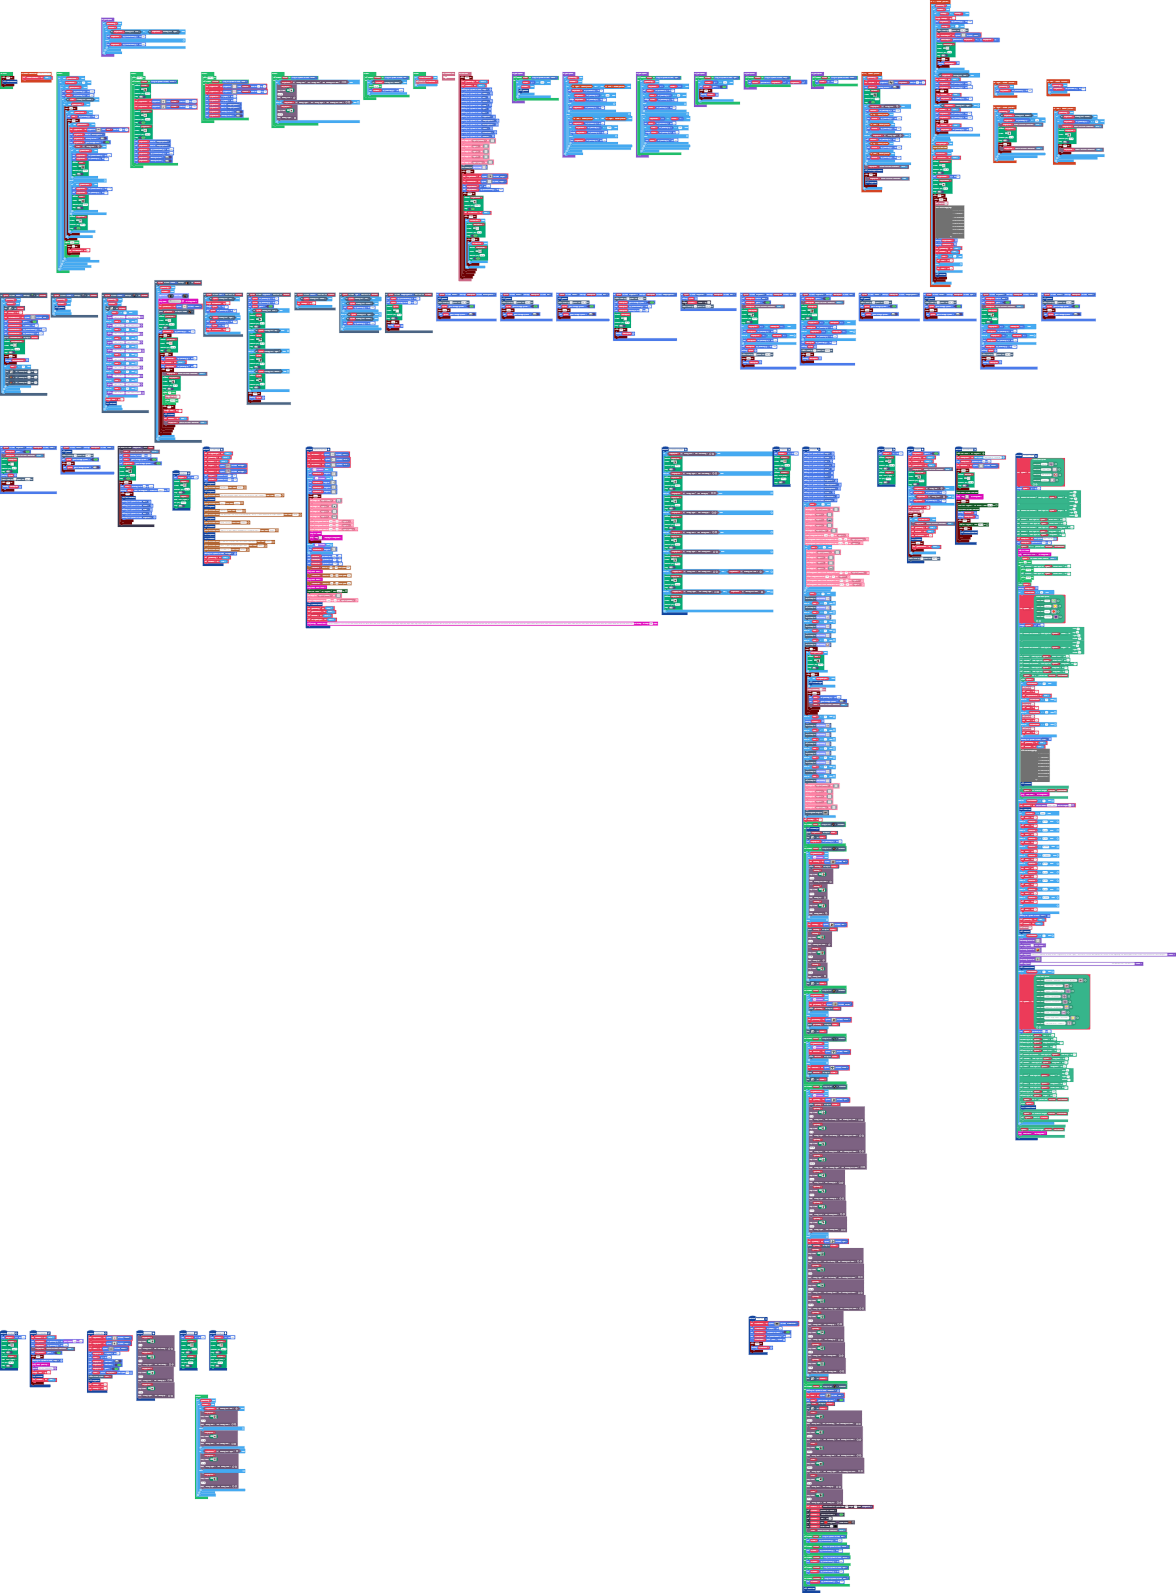
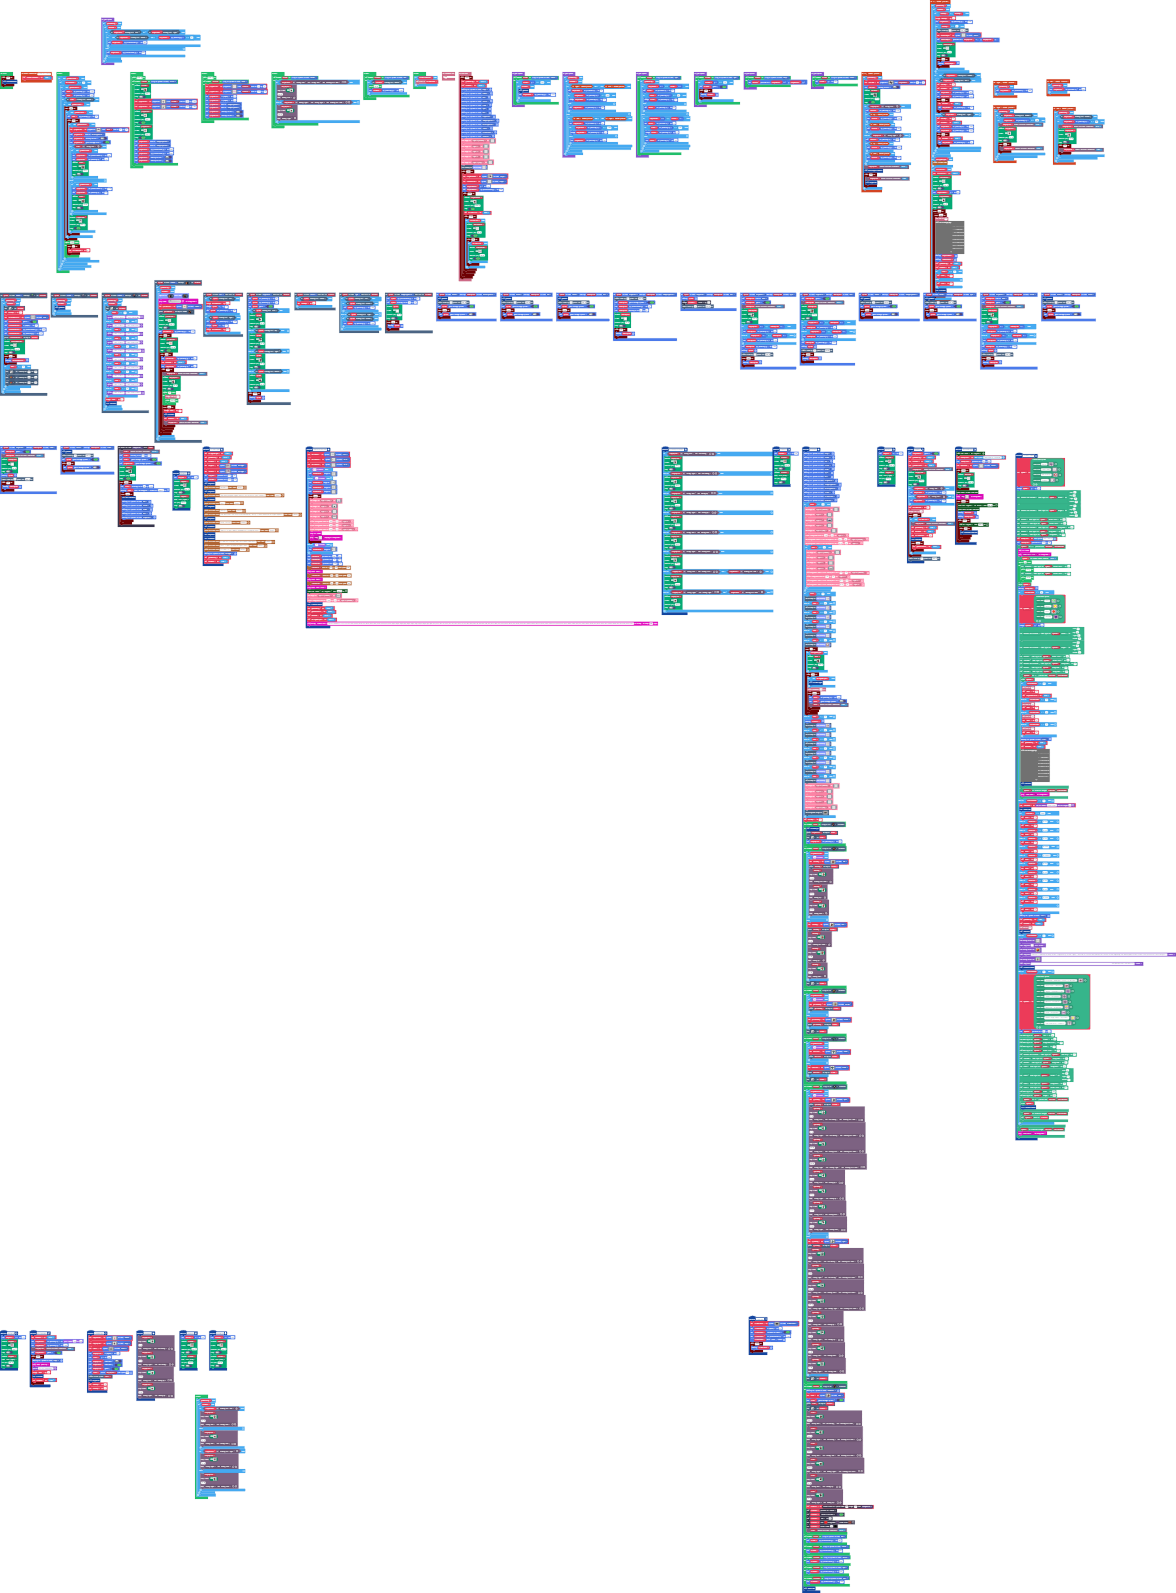
Update pxt.json, main.blocks, main.ts

Changed region(s): [[0.7653, 0.0308, 0.8571, 0.1846], [0.0918, 0.0, 0.1837, 0.0615], [0.4286, 0.0615, 0.4592, 0.0923]]

diff --git a/main.ts b/main.ts
@@ -505,22 +505,26 @@ controller.A.onEvent(ControllerButtonEvent.Pressed, function () {
                     })
                 }
             }
-            if (ninjiHitbox.isHittingTile(CollisionDirection.Left)) {
-                movement = false
-                ninjiHitbox.vx = 80
-                ninjiHitbox.vy = -180
-                timer.after(100, function () {
-                    movement = true
-                    ninjiHitbox.vx = 0
-                })
-            } else if (ninjiHitbox.isHittingTile(CollisionDirection.Right)) {
-                movement = false
-                ninjiHitbox.vx = -80
-                ninjiHitbox.vy = -180
-                timer.after(100, function () {
-                    movement = true
-                    ninjiHitbox.vx = 0
-                })
+            if (!(ninjiHitbox.isHittingTile(CollisionDirection.Bottom))) {
+                if (ninjiHitbox.isHittingTile(CollisionDirection.Left)) {
+                    numJumps = 0
+                    movement = false
+                    ninjiHitbox.vx = 100
+                    ninjiHitbox.vy = -180
+                    timer.after(100, function () {
+                        movement = true
+                        ninjiHitbox.vx = 0
+                    })
+                } else if (ninjiHitbox.isHittingTile(CollisionDirection.Right)) {
+                    numJumps = 0
+                    movement = false
+                    ninjiHitbox.vx = -100
+                    ninjiHitbox.vy = -180
+                    timer.after(100, function () {
+                        movement = true
+                        ninjiHitbox.vx = 0
+                    })
+                }
             }
         }
     }
@@ -8673,7 +8677,7 @@ function createStartMenu () {
     myMenu.setStyleProperty(miniMenu.StyleKind.DefaultAndSelected, miniMenu.StyleProperty.Background, 15)
     myMenu.setStyleProperty(miniMenu.StyleKind.Default, miniMenu.StyleProperty.Foreground, 12)
     myMenu.setStyleProperty(miniMenu.StyleKind.Selected, miniMenu.StyleProperty.Foreground, 11)
-    textSprite = textsprite.create("Ver. 0.6.3b")
+    textSprite = textsprite.create("Ver. 0.6.5")
     textSprite.setPosition(124, 10)
     myMenu.onButtonPressed(controller.A, function (selection, selectedIndex) {
         music.stopAllSounds()
@@ -9937,7 +9941,9 @@ game.onUpdate(function () {
     if (gameRunning) {
         if (movement) {
             if (ninjiHitbox.isHittingTile(CollisionDirection.Left) || ninjiHitbox.isHittingTile(CollisionDirection.Right)) {
-                ninjiHitbox.ay = 400
+                if (!(ninjiHitbox.isHittingTile(CollisionDirection.Bottom)) && ninjiHitbox.vy >= 0) {
+                    ninjiHitbox.ay = 100
+                }
             } else {
                 ninjiHitbox.ay = 600
             }
@@ -9946,9 +9952,10 @@ game.onUpdate(function () {
 })
 game.onUpdate(function () {
     for (let value6 of sprites.allOfKind(SpriteKind.Hitbox)) {
-        if (value6.y >= 148) {
+        if (value6.y >= 160) {
             if (movement) {
                 gameOver()
+                ninjiHitbox.vy = -140
             }
         }
     }
